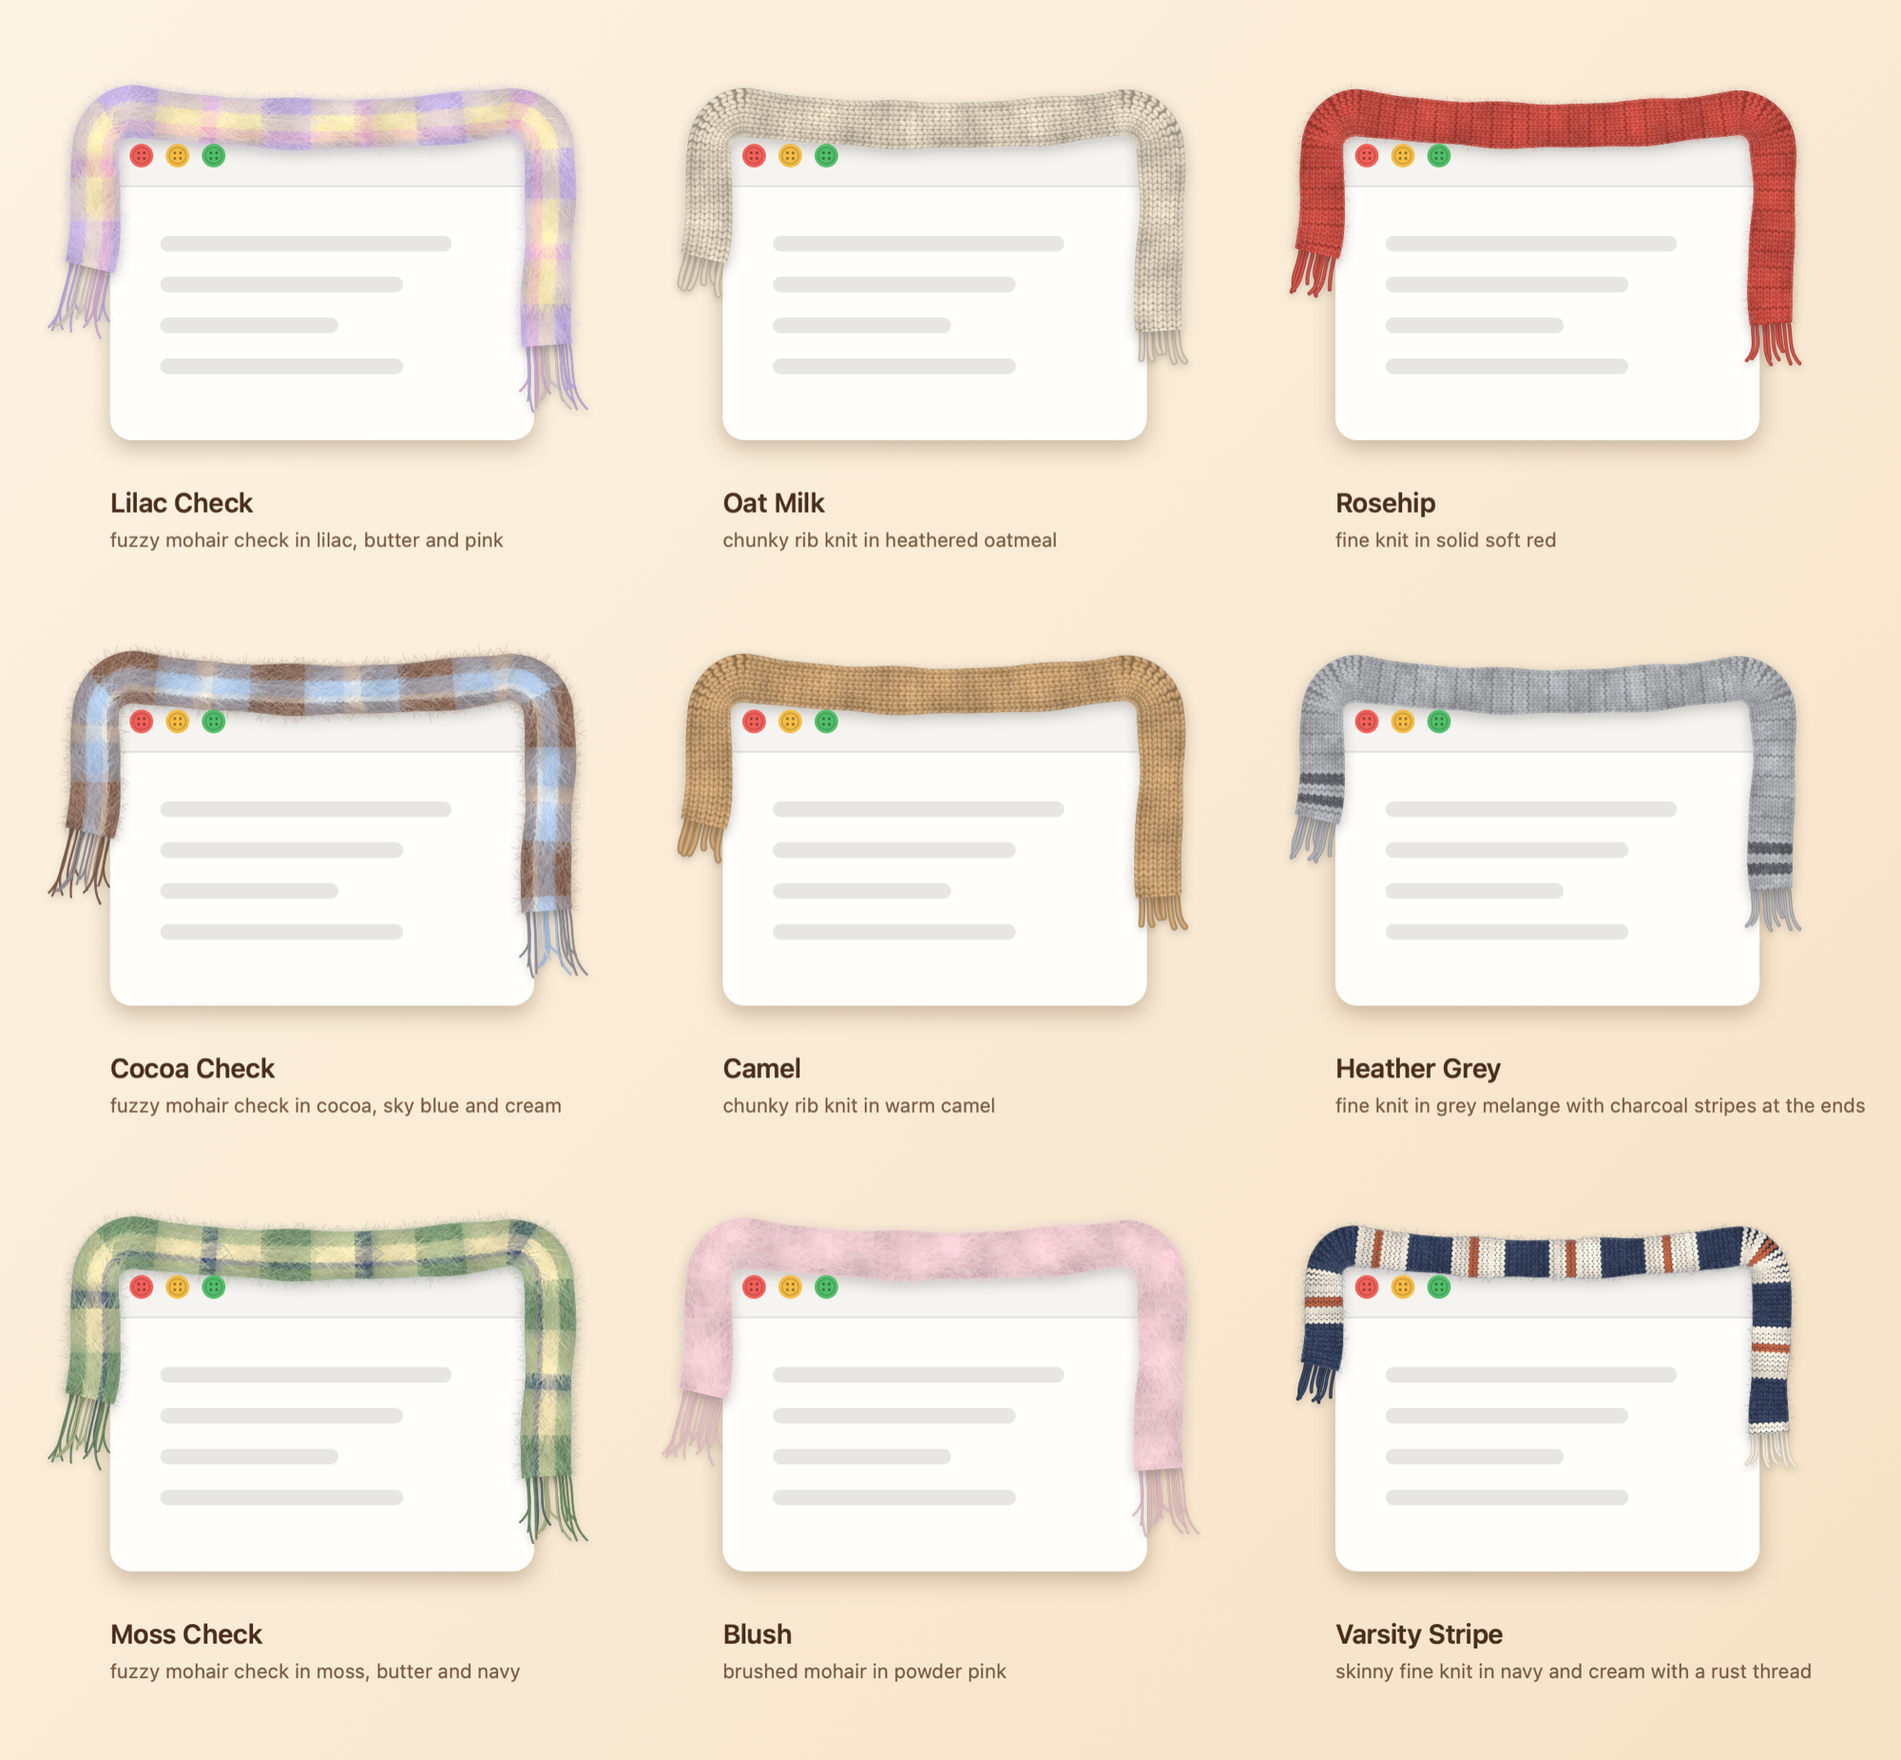
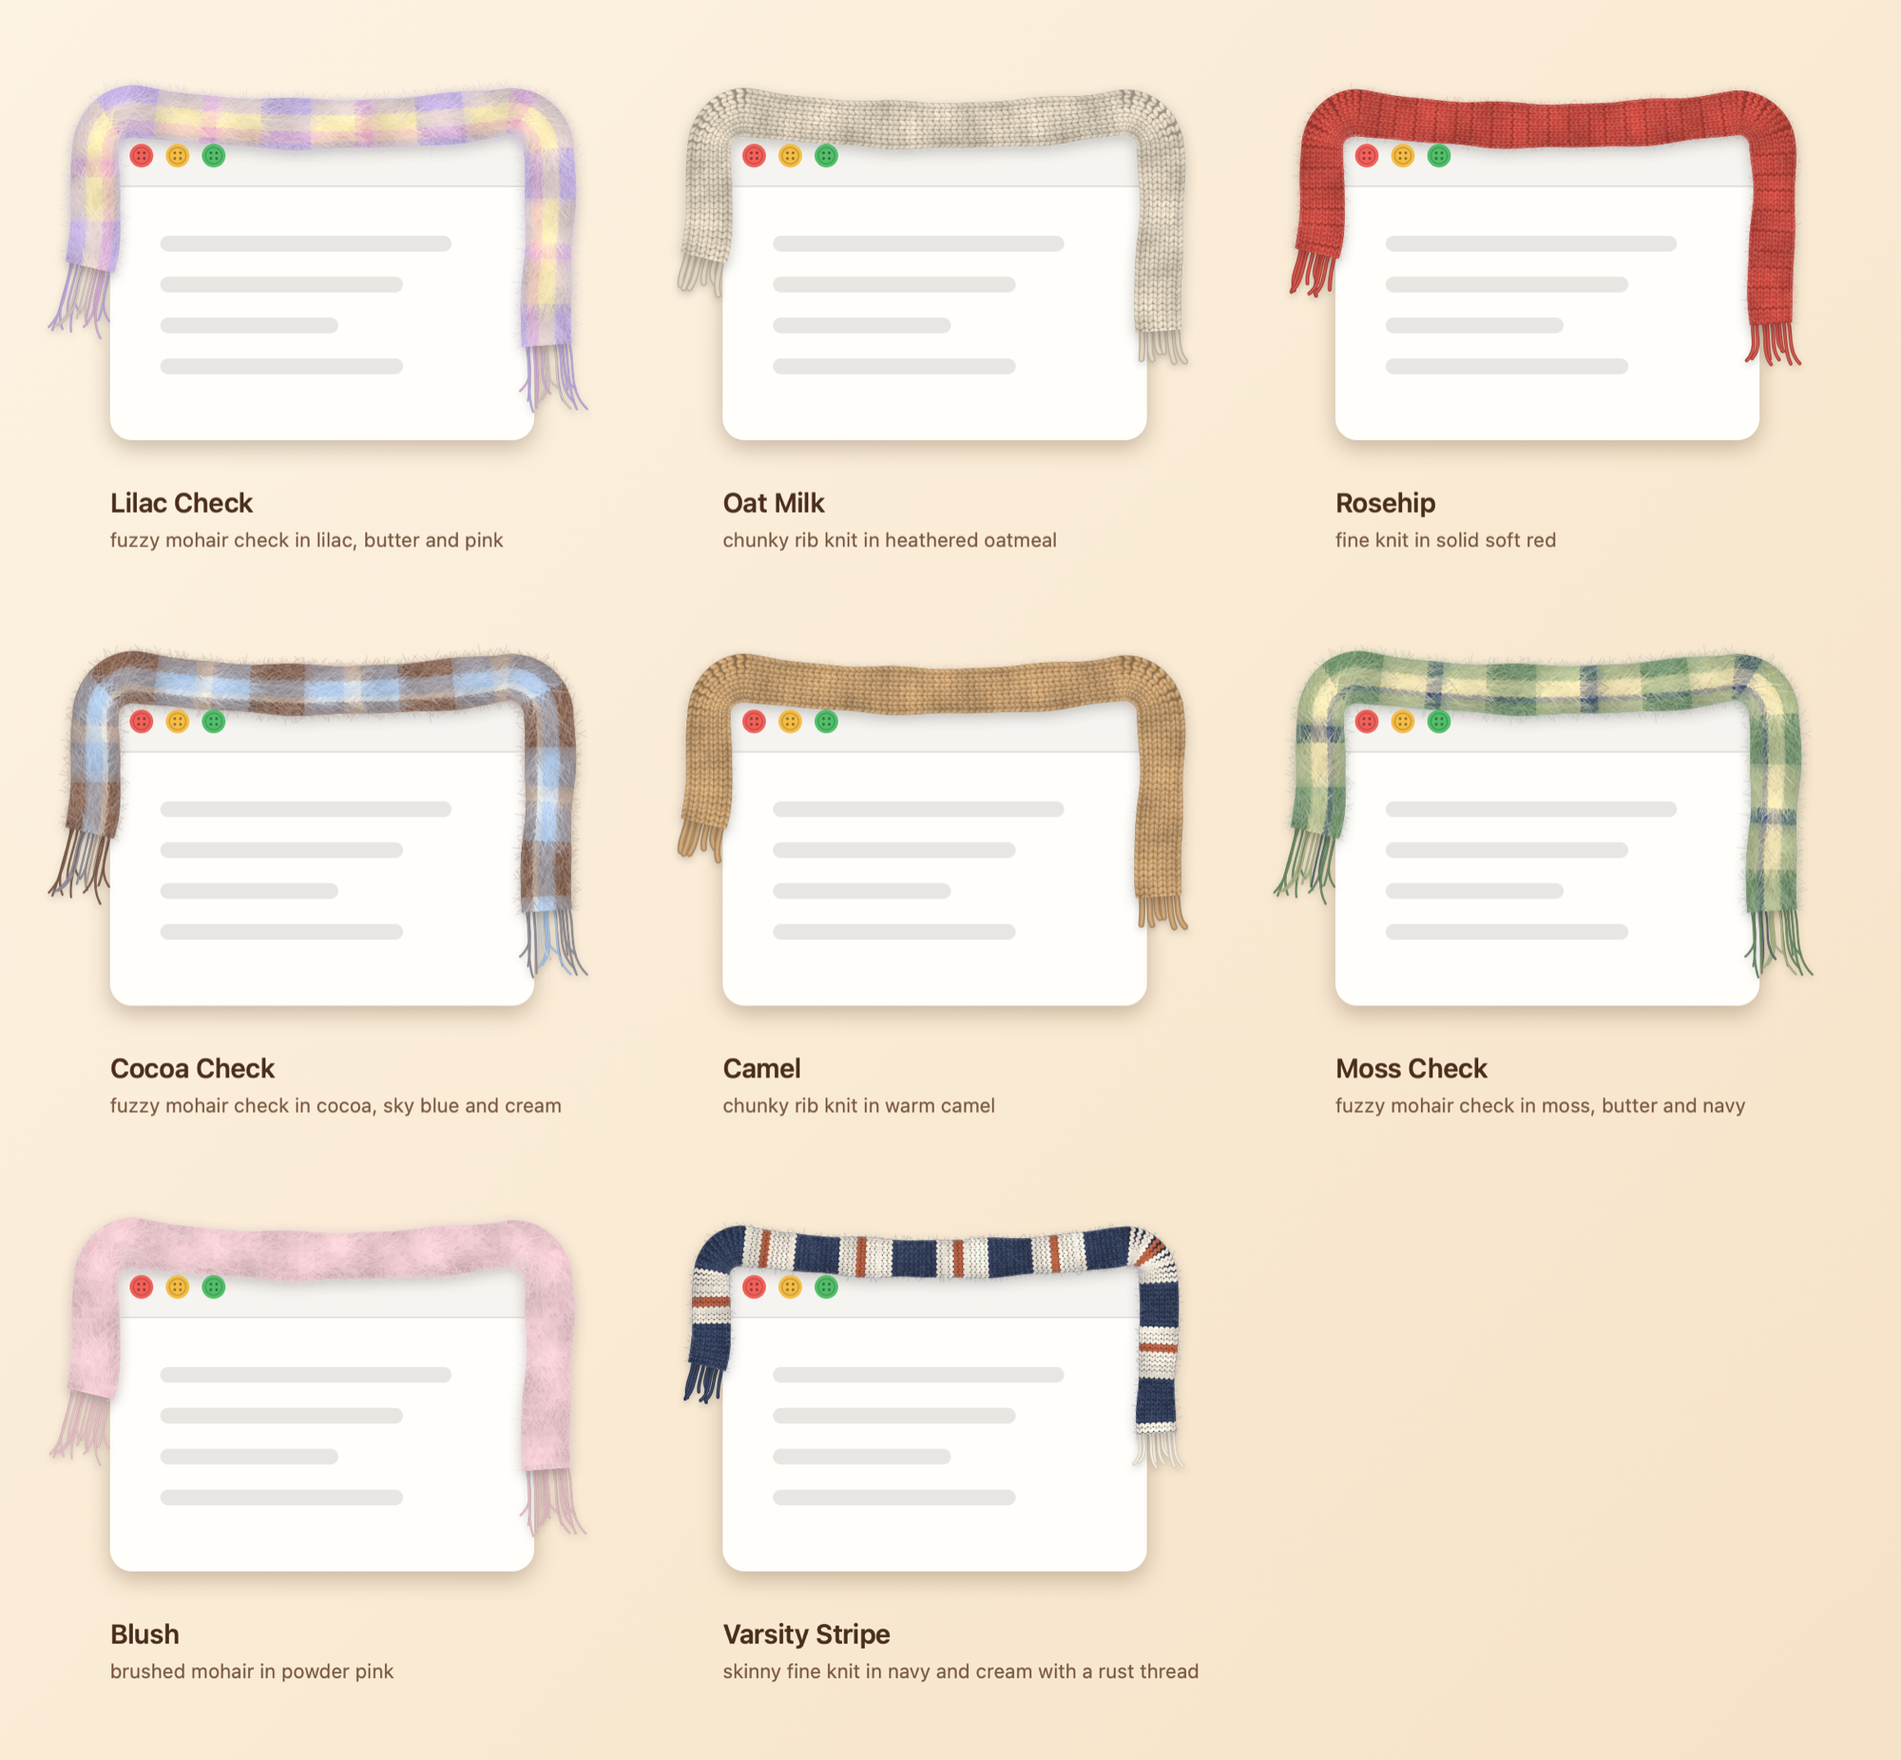
Remove Heather Grey and give the buttons their own shortcut
- Remove the Heather Grey scarf, leaving eight
- Control-Option-B turns the sewing buttons off and on, separately from
  Control-Option-D for the scarves
- The buttons are now off until turned on, so a new user isn't asked for
  Accessibility access on first launch; turning them on asks for it

diff --git a/Sources/main.swift b/Sources/main.swift
@@ -7,6 +7,7 @@ final class AppDelegate: NSObject, NSApplicationDelegate, NSMenuDelegate {
     private let tracker = Tracker()
     private var statusItem: NSStatusItem!
     private var hotKey: HotKey?
+    private var buttonsHotKey: HotKey?
 
     func applicationDidFinishLaunching(_ notification: Notification) {
         statusItem = NSStatusBar.system.statusItem(withLength: NSStatusItem.variableLength)
@@ -24,23 +25,24 @@ final class AppDelegate: NSObject, NSApplicationDelegate, NSMenuDelegate {
 
         updateHotKey()
 
-        // The buttons need to know exactly where each window's real buttons are. Ask once.
-        if settings.sewnButtons && !WindowControls.trusted && !settings.askedForAccessibility {
-            settings.askedForAccessibility = true
-            WindowControls.askForPermission()
-        }
+
     }
 
-    /// ⌃⌥D anywhere turns the scarves on and off. (Control-Option-D isn't used by macOS or
-    /// common apps, so it doesn't take a shortcut away from anything else.)
+    /// ⌃⌥D anywhere turns the scarves on and off; ⌃⌥B does the same for the sewing buttons.
+    /// (Control-Option isn't used with these keys by macOS or common apps, so the shortcuts
+    /// don't take anything away from other apps.)
     private func updateHotKey() {
         hotKey = nil
+        buttonsHotKey = nil
         guard settings.shortcutEnabled else { return }
         hotKey = HotKey(keyCode: kVK_ANSI_D, modifiers: controlKey | optionKey) { [weak self] in
             self?.settings.enabled.toggle()
         }
-        if hotKey == nil {
-            FileHandle.standardError.write(Data("Window Scarves: couldn't register ⌃⌥D (another app may own it)\n".utf8))
+        buttonsHotKey = HotKey(keyCode: kVK_ANSI_B, modifiers: controlKey | optionKey) { [weak self] in
+            self?.toggleButtons()
+        }
+        if hotKey == nil || buttonsHotKey == nil {
+            FileHandle.standardError.write(Data("Window Scarves: couldn't register a shortcut (another app may own it)\n".utf8))
         }
     }
 
@@ -97,14 +99,17 @@ final class AppDelegate: NSObject, NSApplicationDelegate, NSMenuDelegate {
         if apps.items.isEmpty { apps.addItem(NSMenuItem(title: "No windows yet", action: nil, keyEquivalent: "")) }
         menu.addItem(submenu("Apps", apps))
 
-        menu.addItem(item("Buttons on Window Controls", #selector(toggleButtons), on: settings.sewnButtons))
+        let buttons = item("Buttons on Window Controls", #selector(toggleButtons), on: settings.sewnButtons,
+                           key: settings.shortcutEnabled ? "b" : "")
+        buttons.keyEquivalentModifierMask = [.control, .option]
+        menu.addItem(buttons)
         if settings.sewnButtons && !WindowControls.trusted {
             let fit = item("Buttons Need Accessibility Access — Turn On…", #selector(lineUpButtons), on: false)
             fit.toolTip = "Lets Window Scarves see exactly where each window's buttons are"
             menu.addItem(fit)
         }
         menu.addItem(.separator())
-        menu.addItem(item("Keyboard Shortcut ⌃⌥D", #selector(toggleShortcut), on: settings.shortcutEnabled))
+        menu.addItem(item("Keyboard Shortcuts", #selector(toggleShortcut), on: settings.shortcutEnabled))
         menu.addItem(item("Start at Login", #selector(toggleLogin), on: SMAppService.mainApp.status == .enabled))
         menu.addItem(.separator())
         menu.addItem(item("Quit Window Scarves", #selector(quit), on: false, key: "q"))
@@ -146,7 +151,12 @@ final class AppDelegate: NSObject, NSApplicationDelegate, NSMenuDelegate {
             alert.runModal()
         }
     }
-    @objc private func toggleButtons() { settings.sewnButtons.toggle() }
+    /// Turn the sewing buttons on or off. Turning them on asks for Accessibility access if the
+    /// app doesn't have it yet, because that's the only way to find each window's real buttons.
+    @objc private func toggleButtons() {
+        settings.sewnButtons.toggle()
+        if settings.sewnButtons && !WindowControls.trusted { WindowControls.askForPermission() }
+    }
     @objc private func lineUpButtons() { WindowControls.askForPermission() }
     @objc private func shuffle() { settings.shuffleAssignments() }
     @objc private func quit() { NSApp.terminate(nil) }
@@ -184,7 +194,7 @@ if let i = args.firstIndex(of: "--render"), i + 1 < args.count {
         && Catalogue.swatches(to: dir + "/colourways.png")
         && Catalogue.closeUp(to: dir + "/close-up.png", colourway: Colourways.lilacCheck)
         && Catalogue.closeUp(to: dir + "/close-up-rib.png", colourway: Colourways.oatMilk)
-        && Catalogue.closeUp(to: dir + "/close-up-knit.png", colourway: Colourways.heatherGrey)
+        && Catalogue.closeUp(to: dir + "/close-up-knit.png", colourway: Colourways.varsityStripe)
         && Catalogue.closeUp(to: dir + "/close-up-tucked.png", colourway: Colourways.cocoaCheck,
                              fit: ScarfFit(tuck: 0.9 * 43, shortEnd: false))
     print(ok ? "Rendered previews into \(dir)" : "Rendering failed")

diff --git a/Sources/HotKey.swift b/Sources/HotKey.swift
@@ -3,27 +3,40 @@ import Carbon
 /// A system-wide keyboard shortcut. Uses Carbon's hot key API, which needs no special permission.
 final class HotKey {
     private var ref: EventHotKeyRef?
-    private static var handler: (() -> Void)?
+    private let id: UInt32
+    private static var handlers: [UInt32: () -> Void] = [:]
+    private static var nextID: UInt32 = 1
     private static var installed = false
 
-    /// `keyCode` is a virtual key code (e.g. `kVK_ANSI_D`); `modifiers` uses Carbon masks (e.g. `cmdKey`).
+    /// `keyCode` is a virtual key code (e.g. `kVK_ANSI_D`); `modifiers` uses Carbon masks (e.g. `controlKey`).
     init?(keyCode: Int, modifiers: Int, handler: @escaping () -> Void) {
-        HotKey.handler = handler
         if !HotKey.installed {
             var spec = EventTypeSpec(eventClass: OSType(kEventClassKeyboard), eventKind: UInt32(kEventHotKeyPressed))
-            let status = InstallEventHandler(GetApplicationEventTarget(), { _, _, _ in
-                DispatchQueue.main.async { HotKey.handler?() }
+            let status = InstallEventHandler(GetApplicationEventTarget(), { _, event, _ in
+                // Work out which of our shortcuts was pressed.
+                var pressed = EventHotKeyID()
+                let err = GetEventParameter(event, EventParamName(kEventParamDirectObject),
+                                            EventParamType(typeEventHotKeyID), nil,
+                                            MemoryLayout<EventHotKeyID>.size, nil, &pressed)
+                guard err == noErr else { return err }
+                let which = pressed.id
+                DispatchQueue.main.async { HotKey.handlers[which]?() }
                 return noErr
             }, 1, &spec, nil, nil)
             guard status == noErr else { return nil }
             HotKey.installed = true
         }
-        let id = EventHotKeyID(signature: OSType(0x5343_4146), id: 1)  // "SCAF"
-        let status = RegisterEventHotKey(UInt32(keyCode), UInt32(modifiers), id, GetApplicationEventTarget(), 0, &ref)
+        id = HotKey.nextID
+        HotKey.nextID += 1
+        let hotKeyID = EventHotKeyID(signature: OSType(0x5343_4146), id: id)  // "SCAF"
+        let status = RegisterEventHotKey(UInt32(keyCode), UInt32(modifiers), hotKeyID,
+                                         GetApplicationEventTarget(), 0, &ref)
         guard status == noErr else { return nil }
+        HotKey.handlers[id] = handler
     }
 
     deinit {
+        HotKey.handlers[id] = nil
         if let ref { UnregisterEventHotKey(ref) }
     }
 }

diff --git a/Sources/Palette.swift b/Sources/Palette.swift
@@ -114,11 +114,6 @@ struct Colourway {
     var fuzz: Yarn { base.lighten(0.42) }
 }
 
-/// Two stripes just above the fringe, like a classic scarf.
-private func endStripes(_ fromEnd: Int) -> Bool {
-    [3, 4, 7, 8].contains(fromEnd)
-}
-
 /// A soft woven check: lengthwise and crosswise bands of colour that blend where they cross.
 private func check(_ yarns: [Yarn], warp: [(CGFloat, Int)], weft: [(Int, Int)])
     -> (Int, Int, Int, Int) -> Yarn {
@@ -172,12 +167,6 @@ enum Colourways {
         texture: .rib, base: Yarn(0xC59C6C), weight: 1.04, heather: 0.06, fringe: .chunky
     ) { _, _, _, _ in Yarn(0xC59C6C) }
 
-    static let heatherGrey = Colourway(
-        id: "heather-grey", name: "Heather Grey",
-        blurb: "fine knit in grey melange with charcoal stripes at the ends",
-        texture: .knit, base: Yarn(0xABACB1), weight: 1, heather: 0.13, fringe: .wispy
-    ) { _, _, _, fromEnd in endStripes(fromEnd) ? Yarn(0x5A5B62) : Yarn(0xABACB1) }
-
     static let mossCheck = Colourway(
         id: "moss-check", name: "Moss Check",
         blurb: "fuzzy mohair check in moss, butter and navy",
@@ -206,7 +195,7 @@ enum Colourways {
 
     /// Ordered so that the first few apps get a mix of textures.
     static let all: [Colourway] = [
-        lilacCheck, oatMilk, rosehip, cocoaCheck, camel, heatherGrey, mossCheck, blush, varsityStripe,
+        lilacCheck, oatMilk, rosehip, cocoaCheck, camel, mossCheck, blush, varsityStripe,
     ]
 
     /// Setting value meaning "give each app its own scarf".

diff --git a/Sources/Settings.swift b/Sources/Settings.swift
@@ -40,9 +40,9 @@ final class Settings {
         set { d.set(newValue, forKey: "shortcutEnabled") }
     }
 
-    /// Cover the red, yellow and green window buttons with sewing buttons.
+    /// Cover the red, yellow and green window buttons with sewing buttons. Off until asked for.
     var sewnButtons: Bool {
-        get { d.object(forKey: "sewnButtons") as? Bool ?? true }
+        get { d.bool(forKey: "sewnButtons") }
         set { d.set(newValue, forKey: "sewnButtons"); changed() }
     }
 
@@ -62,12 +62,6 @@ final class Settings {
     func shuffleAssignments() {
         assignments = [:]
         changed()
-    }
-
-    /// Whether the app has already asked for Accessibility access once.
-    var askedForAccessibility: Bool {
-        get { d.bool(forKey: "askedForAccessibility") }
-        set { d.set(newValue, forKey: "askedForAccessibility") }
     }
 
     func colourway(forApp app: String) -> Colourway {

diff --git a/README.md b/README.md
@@ -8,9 +8,9 @@ Each window wears one soft scarf that hugs it like a neck: a short end hangs dow
 
 ## The collection
 
-Nine scarves in three textures, each with its own fringe.
+Eight scarves in three textures, each with its own fringe.
 
-![All nine scarves](docs/colourways.png)
+![All eight scarves](docs/colourways.png)
 
 **Brushed mohair** (fuzzy, no visible stitches, long fine fringe)
 
@@ -27,7 +27,6 @@ Nine scarves in three textures, each with its own fringe.
 **Fine knit** (little V stitches, wispy fringe)
 
 - **Rosehip**: solid soft red
-- **Heather Grey**: grey melange with charcoal stripes at the ends
 - **Varsity Stripe**: a skinny scarf in navy and cream with a rust thread
 
 **Mixed** (the default) gives each app a different scarf and remembers it. **Shuffle** deals them out again.
@@ -62,7 +61,10 @@ This builds the app, copies **Window Scarves.app** into `~/Applications`, and op
 
 ## Make yourself cosy
 
-Press **⌃⌥D** (Control-Option-D) anywhere to turn the scarves off and on.
+Two shortcuts work anywhere:
+
+- **⌃⌥D** (Control-Option-D) turns the scarves off and on
+- **⌃⌥B** (Control-Option-B) turns the sewing buttons off and on
 
 Click 🧣 in the menu bar for the rest:
 
@@ -72,18 +74,18 @@ Click 🧣 in the menu bar for the rest:
 - **Windows**: every window, or only the front one
 - **Apps**: untick an app to leave its windows bare
 - **Buttons on Window Controls**: see below
-- **Keyboard Shortcut ⌃⌥D**: turn the shortcut off if you don't want it
+- **Keyboard Shortcuts**: turn both shortcuts off if you don't want them
 - **Start at Login**: open Window Scarves automatically when you log in
 
 The scarf stays on the window's top edge, so it never covers the red, yellow and green buttons. If there's no room on screen beside a window, the long end moves to the other side, the short end is left off, and as a last resort the long end tucks just inside the window.
 
 ### The buttons
 
-Window Scarves can turn each window's red, yellow and green buttons into little sewing buttons. They're only pictures: clicks pass straight through to the real buttons underneath.
+Press **⌃⌥B** (or choose **Buttons on Window Controls** in the menu) to turn each window's red, yellow and green buttons into little sewing buttons. They're off until you turn them on. They're only pictures: clicks pass straight through to the real buttons underneath.
 
-This needs Accessibility permission. Where those buttons sit differs from app to app (16 points in on plain windows, 26 on windows with toolbars, and anywhere at all in apps that draw their own title bars), so the only way to place a sewing button exactly on top is to ask the window, and macOS only allows that with permission. The app asks once when it first opens, and there's a menu item to ask again. Without permission the scarves work as normal and no sewing buttons are drawn. The permission is only used for this.
+This needs Accessibility permission, and the app asks for it the first time you turn the buttons on. Where those buttons sit differs from app to app (16 points in on plain windows, 26 on windows with toolbars, and anywhere at all in apps that draw their own title bars), so the only way to place a sewing button exactly on top is to ask the window, and macOS only allows that with permission. Without it, no sewing buttons are drawn. The scarves never need it. The permission is only used for this.
 
-The app is ad-hoc signed, so macOS treats each new build as a different app. After rebuilding, switch Window Scarves off and on again under **System Settings → Privacy & Security → Accessibility**.
+If you build the app yourself: it's ad-hoc signed, so macOS treats each new build as a different app. After rebuilding, switch Window Scarves off and on again under **System Settings → Privacy & Security → Accessibility**.
 
 ## How it works
 
